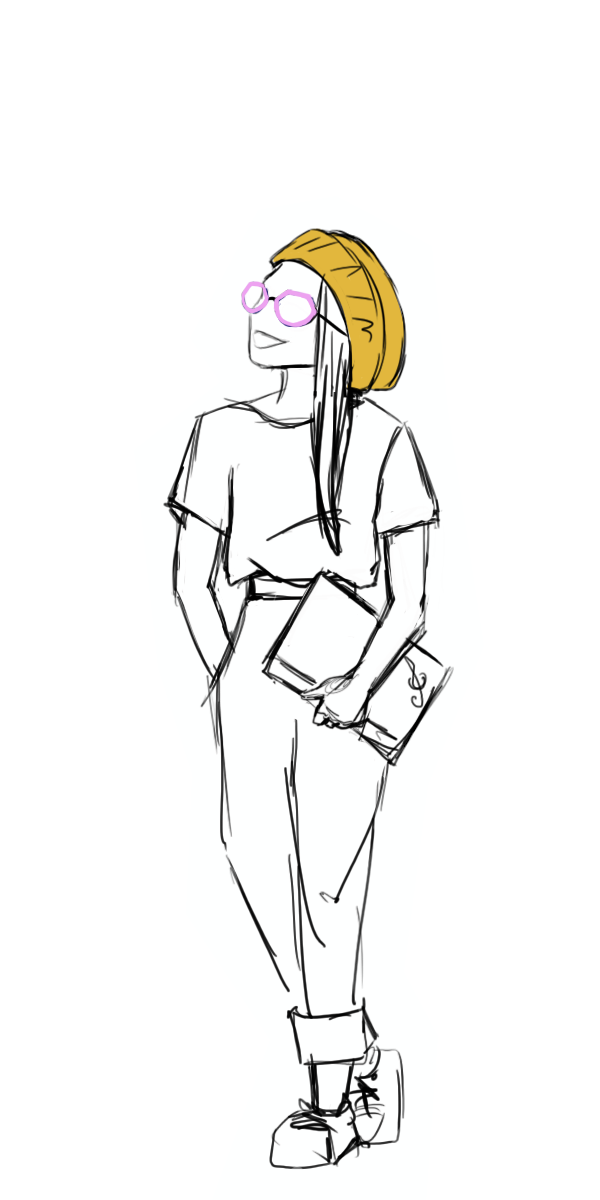
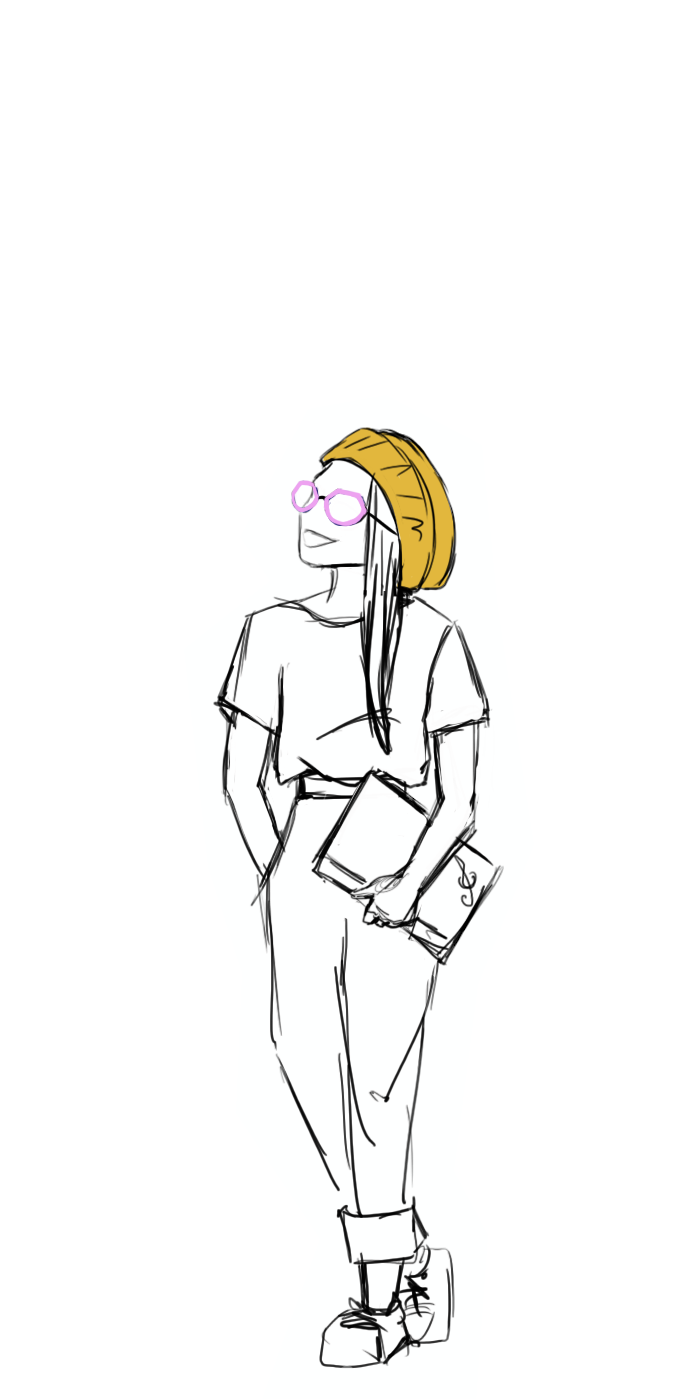
Resize drawings + remove tel

Changed region(s): [[0.27, 0.185, 0.75, 0.9867]]

diff --git a/src/view/components/Contact/Contact.tsx b/src/view/components/Contact/Contact.tsx
@@ -73,14 +73,6 @@ const Contact : React.FC = props => {
                         <a href='mailto:mark.kimanh@gmail.com'><Text english='By email' french='Par email' /></a>
                     </div>
                 </div>
-                <div className={`contact-item tel ${showPhoneClassname}`}>
-                    <div className={`contact-big-item tel`}>
-                        0123456789
-                    </div>
-                    <div className={`contact-item-relative`}>
-                        <a href='tel:0123456789'><Text english='By telephone' french='Par téléphone' /></a>
-                    </div>
-                </div>
                 <div className={`contact-item instagram ${showInstagramClassname}`}>
                     <div className={`contact-big-item instagram`}>
                         <span className={`this-is`}>thisis</span><br></br><span>makiworld</span>
